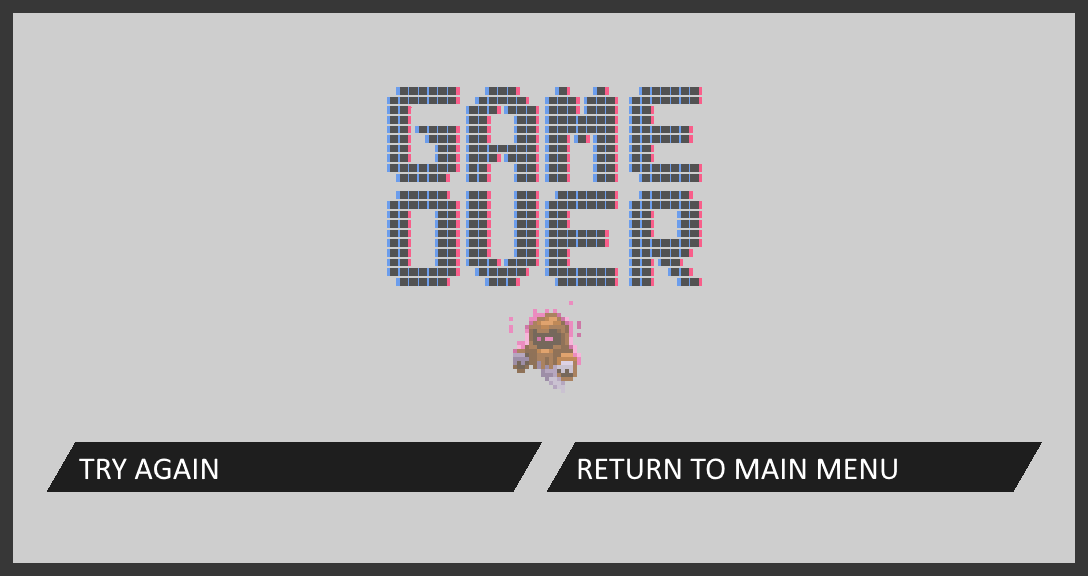
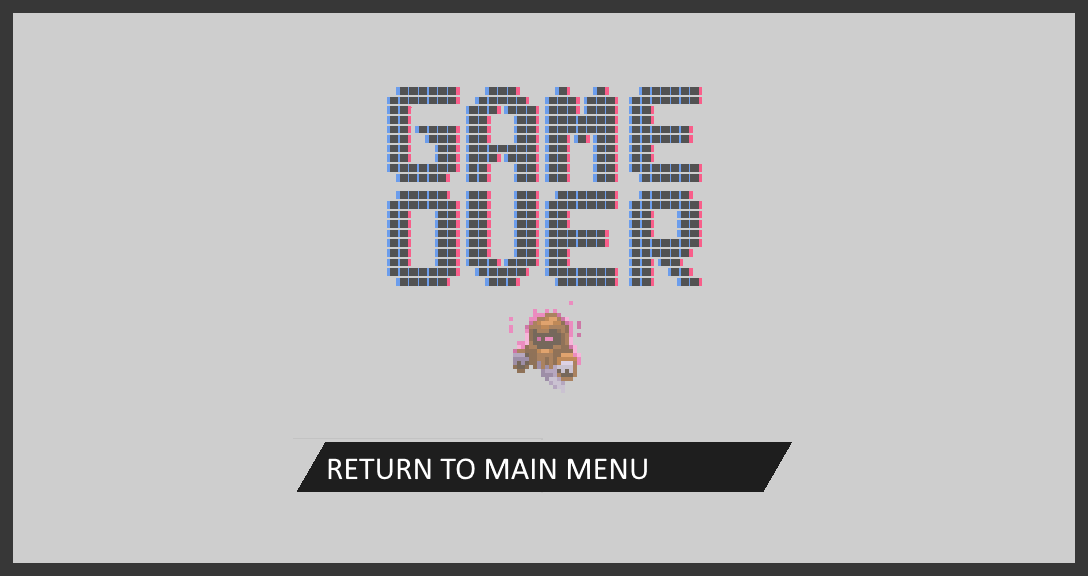
Death menu update

Changed region(s): [[0.0312, 0.75, 0.9688, 0.875]]

diff --git a/src/Model/Game.java b/src/Model/Game.java
@@ -151,7 +151,6 @@ public class Game extends Canvas implements Runnable {
      */
     public static synchronized Game getInstance(int test){
         if(instance == null){
-            System.out.println(test);
             instance = new Game();
         }
         return instance;
@@ -308,6 +307,9 @@ public class Game extends Canvas implements Runnable {
                 if(state.equals(GameState.Game) || state.equals(GameState.MainMenu) || state.equals(GameState.GameOver)) {
                     tick();
                 }
+                else if(state.equals(GameState.Won)){
+                    winScreenRender();
+                }
                 if(state.equals(GameState.MainMenu)) {
                     Music.setIsMenu(true);
                     mainMenu.calculations();
@@ -319,7 +321,9 @@ public class Game extends Canvas implements Runnable {
 
 
             }
-            render();
+            if(!state.equals(GameState.Won)) {
+                render();
+            }
 
             if(System.currentTimeMillis() - timer > 1000) {
                 timer += 1000;
@@ -405,20 +409,9 @@ public class Game extends Canvas implements Runnable {
             mainMenu.render(g);
         } else if(state == GameState.EscMenu){
             escMenu.render(g);
-        }else if(state == GameState.Won){
-            Camera.getInstance().setX(10880);
-            Camera.getInstance().setY(5760);
-            Graphics2D g2d1 = (Graphics2D)g;
-            g2d1.translate(-Camera.getInstance().getX(), -Camera.getInstance().getY());
-            winScreenAnimationCounter = ++winScreenAnimationCounter % 80;
-            if(winScreenAnimationCounter % 10 == 0) {
-                g.drawImage(winScreenSprites.get(winScreenAnimationCounter/10), 10880, 5760, null);
-            }
-            g2d1.translate(Camera.getInstance().getX(), Camera.getInstance().getY());
         }
         g.dispose();
         bs.show();
-
     }
 
     public void winScreenInit(){
@@ -429,6 +422,27 @@ public class Game extends Canvas implements Runnable {
         }
     }
 
+    public void winScreenRender(){
+        Camera.getInstance().setX(10880);
+        Camera.getInstance().setY(5760);
+
+        BufferStrategy bs = this.getBufferStrategy();
+        if(bs==null){
+            this.createBufferStrategy(2);
+            return;
+        }
+        g = bs.getDrawGraphics();
+        Graphics2D g2d1 = (Graphics2D)g;
+        g2d1.translate(-Camera.getInstance().getX(), -Camera.getInstance().getY());
+        winScreenAnimationCounter = ++winScreenAnimationCounter % 80;
+        if(winScreenAnimationCounter % 10 == 0) {
+            g.drawImage(winScreenSprites.get(winScreenAnimationCounter/10), 10880, 5760, null);
+        }
+        g2d1.translate(Camera.getInstance().getX(), Camera.getInstance().getY());
+
+        g.dispose();
+        bs.show();
+    }
     /**
      * Adds the portal to the game.
      * @param x x-coordinate of the portal's position

diff --git a/src/Model/EscMenu.java b/src/Model/EscMenu.java
@@ -187,13 +187,9 @@ public class EscMenu extends MouseAdapter {
 
         // For Gameover
         else if(Game.getState().equals(GameState.GameOver)){
-            if (mx >= Camera.getInstance().getX() + 47 && mx <= Camera.getInstance().getX() + 542 &&
-                my >= Camera.getInstance().getY() + 442 && my <= Camera.getInstance().getY() + 492){
-            }
-            else if (mx >= Camera.getInstance().getX() + 547 && mx <= Camera.getInstance().getX() + 1042 &&
+            if (mx >= Camera.getInstance().getX() + 298 && mx <= Camera.getInstance().getX() + 792 &&
                      my >= Camera.getInstance().getY() + 442 && my <= Camera.getInstance().getY() + 492) {
                 Game.setState(GameState.MainMenu);
-
             }
         }
     }
